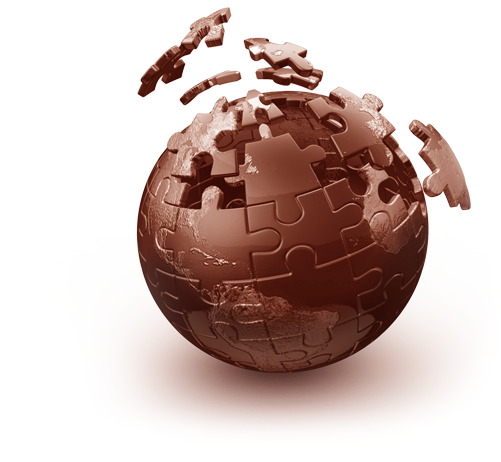
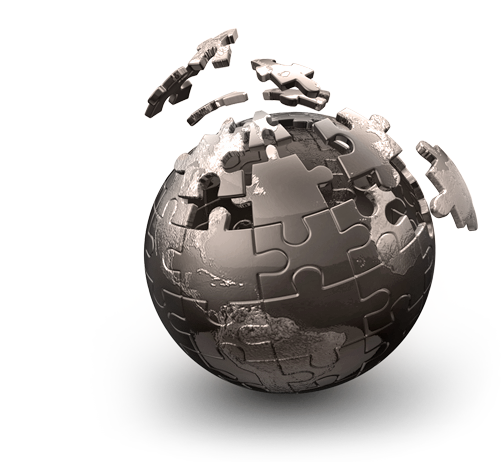
restyling

diff --git a/src/pages/OveronsPage.jsx b/src/pages/OveronsPage.jsx
@@ -1,6 +1,7 @@
 import React from 'react'
 import { Link } from 'react-router-dom';
 import BackButton from '../components/BackButton';
+import globe from "../assets/images/globe2.png"
 
 const OveronsPage = () => {
 
@@ -8,52 +9,60 @@ const OveronsPage = () => {
 
   return (
     <div className="w-full flex items-center px-8 relative max-lg:px-8 pb-0 max-bracket:px-4">
+      {/* <div className="absolute right-0 top-0 w-full min-max-full min-h-screen bg-[url('./assets/images/bg_blur3.jpg')] bg-no-repeat bg-center bg-cover opacity-10"></div> */}
       <div className="w-full">
         <div className="overons flex flex-col">
           <div className="w-full flex flex-row justify-between text-black font-normal gap-12 rounded-lg z-5 max-lg:flex-col">
-            <div className="flex pt-[185px] flex-1 flex-col leading-2 text-lg max-lg:w-full pb-20 max-xxsm:pt-[160px]">
+            <div className="flex pt-[170px] flex-1 flex-col leading-2 text-lg max-lg:w-full pb-20 max-xxsm:pt-[160px]">
               <div className="flex justify-between border-b border-black mb-8">
                 <span className="flex text-[#000] text-2xl font-semibold pb-2 pt-2">
                   # Over het Leerhuis
                 </span>
               </div>
 
-              <div className="w-full h-full flex flex-col items-center justify-center">
-                <span className="flex text-xl font-semibold pb-4 italic">
-                  "Leven in een complexe wereld"
-                </span>
-                <div className="w-full max-w-[900px] italic max-lg:w-full px-0">
-                  <p>Het Leerhuis Amsterdam richt zich op zinvol samen leven in een
-                  complexe wereld die ons voor veel vragen stelt.
-                  <br /> Vanuit de Bijbel en andere bronnen voor oriëntatie en
-                  de hedendaagse wereld van kunst en cultuur zoeken wij hierover
-                  het gesprek.
-                  <br /> We organiseren daarom bijeenkomsten, dialogen en
-                  cursussen, in de Muiderkerk, waarin deze werelden elkaar
-                  ontmoeten.<br />
-                  Leerhuis Amsterdam nodigt je uit voor 'moedige egesprekken'
-                  met het oog op vragen, over hoe we met elkaar zinvol kunnen
-                  samenleven .<br />
-                  Rond de bespreking van een boek of een thema ontstaat voor
-                  een tijdje een gemeenschap. Daarin hebben we aandacht voor
-                  ieders geloof, spiritualiteit, filosofisch en
-                  levensbeschouwend perspectief. Verras elkaar met je
-                  leergierigheid, je vrijmoedig dóórvragen en soms ook met je
-                  levenservaringen, wanneer je die wilt delen.
-                  <br />
-                  Betekenis vinden, op ideeën komen, door ontmoeting en
-                  dialoog. Daar draait het om. En mogelijk heb je er ook wat
-                  aan in gesprekken met vrienden, familie, tijdens je werk, bij
-                  je morele en politieke keuzes of in je geloofsgemeenschap.
-                  Zo'n zinvolle doorwerking van wat we met en van elkaar leren
-                  zou mooi zijn!
-                  <br />
-                  Trouwens: heb je zélf een onderwerp dat je wilt bespreken
-                  met anderen, laat het ons weten, dan kijken we of en wanneer
-                  het past.
-                  <br />
-                  We kijken naar jullie uit!
-                  </p>
+              <div className="w-full h-full flex flex-row items-center justify-center max-xxl:flex-col">
+                <div>
+                  <span className="flex justify-center text-xl text-orange-700 font-semibold pb-4 italic">
+                    "Leven in een complexe wereld"
+                  </span>
+                  <div className="w-full max-w-[900px] italic max-lg:w-full px-0">
+                    <p>
+                      Het Leerhuis Amsterdam richt zich op zinvol samen leven in
+                      een complexe wereld die ons voor veel vragen stelt.
+                      <br /> Vanuit de Bijbel en andere bronnen voor oriëntatie
+                      en de hedendaagse wereld van kunst en cultuur zoeken wij
+                      hierover het gesprek.
+                      <br /> We organiseren daarom bijeenkomsten, dialogen en
+                      cursussen, in de Muiderkerk, waarin deze werelden elkaar
+                      ontmoeten.
+                      <br />
+                      Leerhuis Amsterdam nodigt je uit voor 'moedige
+                      egesprekken' met het oog op vragen, over hoe we met elkaar
+                      zinvol kunnen samenleven .<br />
+                      Rond de bespreking van een boek of een thema ontstaat voor
+                      een tijdje een gemeenschap. Daarin hebben we aandacht voor
+                      ieders geloof, spiritualiteit, filosofisch en
+                      levensbeschouwend perspectief. Verras elkaar met je
+                      leergierigheid, je vrijmoedig dóórvragen en soms ook met
+                      je levenservaringen, wanneer je die wilt delen.
+                      <br />
+                      Betekenis vinden, op ideeën komen, door ontmoeting en
+                      dialoog. Daar draait het om. En mogelijk heb je er ook wat
+                      aan in gesprekken met vrienden, familie, tijdens je werk,
+                      bij je morele en politieke keuzes of in je
+                      geloofsgemeenschap. Zo'n zinvolle doorwerking van wat we
+                      met en van elkaar leren zou mooi zijn!
+                      <br />
+                      Trouwens: heb je zélf een onderwerp dat je wilt bespreken
+                      met anderen, laat het ons weten, dan kijken we of en
+                      wanneer het past.
+                      <br />
+                      We kijken naar jullie uit!
+                    </p>
+                  </div>
+                </div>
+                <div>
+                  <img src={globe} alt="globe" className="pl-8 max-xxl:pr-20 max-xxl:mt-8 max-xxxsm:pr-16" />
                 </div>
               </div>
               {/* <div className="w-full flex justify-center items-center text-md">

diff --git a/src/components/Overons.jsx b/src/components/Overons.jsx
@@ -9,9 +9,9 @@ const Overons = () => {
       <div className="w-full">
         <div className="overons flex flex-col ">
           <div className="w-full flex flex-row justify-between text-black font-normal rounded-lg z-5 max-lg:flex-col ">
-            <div className="flex flex-1 flex-col justify-center items-center leading-2 pb-8 text-lg max-lg:w-full">
-              <div className="w-full flex justify-between border-b border-black mb-8">
-                <span className="flex text-black text-2xl font-semibold pb-4">
+            <div className="flex flex-1 flex-col justify-center items-center leading-2 pb-4 text-lg max-lg:w-full">
+              <div className="w-full flex justify-between border-b border-black mb-4">
+                <span className="flex text-black text-2xl font-semibold pb-2">
                   # Over het Leerhuis
                 </span>
               </div>
@@ -50,7 +50,7 @@ const Overons = () => {
               >
                 <button
                   type="button"
-                  className="btn w-[150px] rounded-full justify-center items-center text-black border-2 border-neutral-400 gap-2 pb-1 leading-8 pt-1 font-semibold"
+                  className="btn w-[150px] rounded-full justify-center bg-white/50 items-center text-black border-2 border-neutral-400 gap-2 pb-1 leading-8 pt-1 font-semibold"
                 >
                   Lees meer
                 </button>

diff --git a/src/components/Aktueel.jsx b/src/components/Aktueel.jsx
@@ -1,0 +1,30 @@
+import React from "react";
+import { Link } from "react-router-dom";
+
+const Aktueel = () => {
+  return (
+    <div className="w-[full] h-[600px] flex flex-row m-auto px-8 text-black max-xxsm:px-4">
+      <div className="w-full flex flex-col">
+        <div className="w-full flex flex-row gap-2 pl-0 mb-6 border-b border-black pb-2 pt-10 max-xxsm:pt-8">
+          <span className="text-2xl font-semibold pt-1 text-black">
+            # Aktueel
+          </span>
+        </div>
+
+        <div className="w-full h-full flex flex-col justify-center items-center mt-16 gap-10 mb-20">
+          <span>Lopende activiteit(en) en andere aktuele zaken</span>
+          <Link to="/aktueel">
+            <button
+              type="button"
+              className="btn w-[150px] rounded-full justify-center items-center text-[#000] border-2  border-neutral-400 gap-2 pb-1 leading-8 pt-1 text-md font-semibold"
+            >
+              aktuele zaken
+            </button>
+          </Link>
+        </div>
+      </div>
+    </div>
+  );
+};
+
+export default Aktueel;

diff --git a/src/pages/AllActivities.jsx b/src/pages/AllActivities.jsx
@@ -30,7 +30,7 @@ const AllActivities = () => {
         <div className="w-[85%] grid grid-cols-4 max-xxxl:grid-cols-3 max-xl:grid-cols-2 max-xmd:grid-cols-1 gap-8 ">
           {data?.map((act) => (
             <div className="w-full min-h-full rounded-2xl" key={act.id}>
-              <div className="calendar_item w-full h-full bg-gray-100/60 rounded-xl flex flex-col justify-between relative">
+              <div className="calendar_item w-full h-full bg-gradient-to-t from-neutral-300 to-white rounded-xl flex flex-col justify-between relative">
                 <div className="p-4">
                   <span className="border-b border-black flex justify-between font-bold text-xl pb-2">
                     {act.title}
@@ -63,7 +63,6 @@ const AllActivities = () => {
 
                 <Link
                   to={`calendaritem/${act.id}`}
-                  
                   className="w-full flex justify-center items-center absolute bottom-0 z-10 bg-black/50 py-4 rounded-b-lg"
                 >
                   <button

diff --git a/src/components/Layout.jsx b/src/components/Layout.jsx
@@ -26,7 +26,7 @@ const showMenuOverlay = () => {
   return (
     <div className="w-full max-w-[2000px] mx-auto relative">
       <div className="w-full bg-gradient-to-r from-neutral-800/0  to-blue-800/0">
-        <div className="fixed top-0 w-full max-w-[2000px] min-h-screen bg-[url('./assets/images/map_adam.jpg')] bg-no-repeat bg-center bg-cover -z-[999] opacity-50" />
+        <div className="fixed top-0 w-full max-w-[2000px] min-h-screen bg-[url('./assets/images/map_adam1.jpg')] bg-no-repeat bg-center bg-cover -z-[999] opacity-20" />
         <Header showMenuOverlay={showMenuOverlay} />
         <div className="socials h-[30px] flex-row justify-center items-center gap-2 hidden">
           <Socials />

diff --git a/src/pages/CalendarItem.jsx b/src/pages/CalendarItem.jsx
@@ -41,9 +41,9 @@ useEffect(()=> {
 
   return (
     <div className="w-full flex items-center flex-row max-calendar:h-auto">
-      <div className="flex flex-1 pt-[200px] flex-col items-center max-calendar:mt-12 max-xsm:pt-[170px]">
+      <div className="flex flex-1 pt-[190px] flex-col items-center max-calendar:mt-12 max-xsm:pt-[170px]">
         <div className="w-full max-w-[700px] mb-32 flex flex-col items-center px-2">
-          <div className="w-full flex justify-start pl-4 text-xl font-semibold mb-4">
+          <div className="w-full flex justify-start pl-4 text-xl font-semibold mb-8 border-b border-black pb-2">
             # Over {item.title}
           </div>
 

diff --git a/src/components/Root.jsx b/src/components/Root.jsx
@@ -1,18 +1,20 @@
-import React from 'react'
-import Overons from './Overons'
-import Activities from './Activities'
-import Contact from './Contact';
-import ScrollToTop from '../utils/ScrollToTop';
+import React from "react";
+import Overons from "./Overons";
+import Activities from "./Activities";
+import Contact from "./Contact";
+import ScrollToTop from "../utils/ScrollToTop";
+import Aktueel from "./Aktueel";
 
 const Root = () => {
   return (
     <>
       <Overons />
       <Activities />
+      <Aktueel />
       <Contact />
       <ScrollToTop />
     </>
   );
-}
+};
 
-export default Root
+export default Root;

diff --git a/src/components/Activities.jsx b/src/components/Activities.jsx
@@ -59,7 +59,7 @@ return (
       >
         {data?.slice(0, slice).map((act) => (
           <div className="w-full min-h-full rounded-2xl" key={act.id}>
-            <div className="calendar_item w-full h-full bg-white rounded-xl flex flex-col justify-between relative">
+            <div className="calendar_item w-full h-full bg-gradient-to-t from-stone-300 to-white rounded-xl flex flex-col justify-between relative">
               <div className="p-4">
                 <span className="border-b border-black flex justify-between font-bold text-xl pb-2">
                   {act.title}

diff --git a/src/index.css b/src/index.css
@@ -38,9 +38,9 @@ body {
   shape-outside: url("../assets/images/gathering.jpg");
 }
 
-.btn {
+/* .btn {
   box-shadow: 0px 0px 8px rgb(0,0,0,.3);
-}
+} */
 
 .calendar_item {
   box-shadow: 0px 2px 4px gray;
